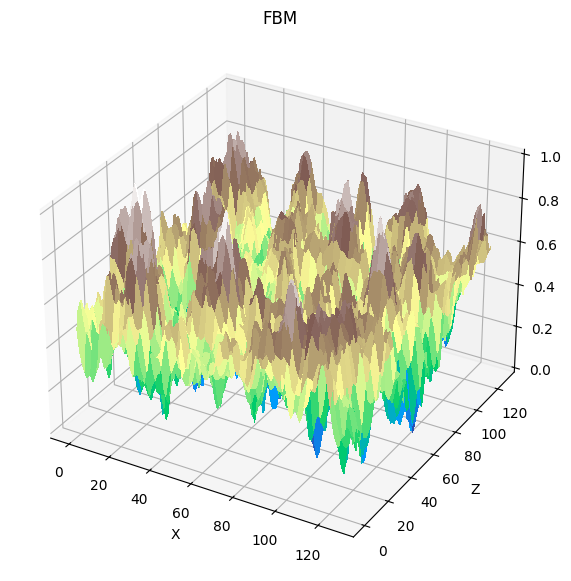
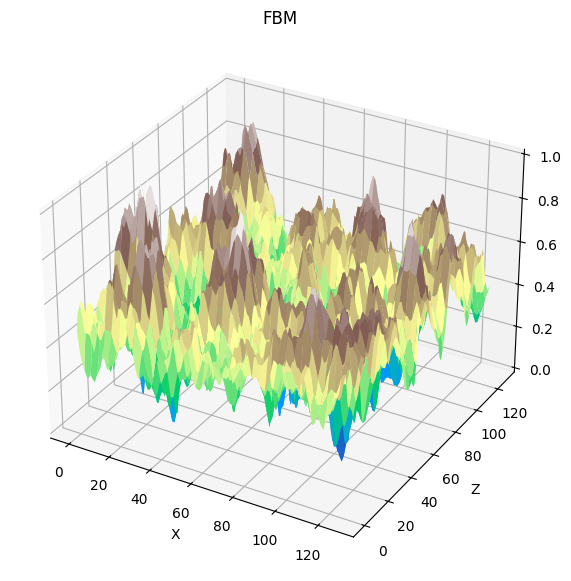
Accustom newly added changes in README

Changed region(s): [[0.1191, 0.2169, 0.8634, 0.8055]]

diff --git a/README.md b/README.md
@@ -4,9 +4,9 @@ Minimal procedural terrain generation with 3D mesh export, render & visualizatio
 <img src="noises/fbm.png" width=256> <img src="noises/perlin.png" width=256>
 
 ## Features
-- Procedural heightmap generation using **Perlin** or **FBM**
+- Procedural heightmap generation using fractal noise
 - Convert heightmaps to 3D mesh (OBJ format)
-- Render the 3D mesh using Ursina Engine
+- Render the 3D mesh using **Ursina Engine**
 - Static visualization in **Jupyter Notebook**
 - Configurable via <code>config.yaml</code>
 
@@ -18,14 +18,16 @@ Minimal procedural terrain generation with 3D mesh export, render & visualizatio
 - Ursina
 
 ## Usage
-1. Generate & export mesh:
+1. Visualize in **Jupyter Notebook**:
+    - Open <code>visualization.ipynb</code>. The notebook generates an illustration of the terrain in a simple 3D graph:
+    
+    <img src="noises/billow.png" width=256> <img src="noises/ridged.png" width=256>
+
+2. Generate & export mesh:
     - ```bash
         python generate.py
         ```
-    - This will produce an OBJ file in <code>meshes/</code> that can eventually be rendered in <b>Blender</b> or <b>Meshlab</b>
-
-2. Visualize in <b>Jupyter Notebook</b>:
-    - Open <code>visualization.ipynb</code>. The notebook generates an illustration of the terrain in a simple 3D graph.
+    - This will produce an OBJ file in <code>meshes/</code> that can eventually be rendered in **Blender** or **Meshlab**
 
 3. Render using generated mesh:
     - ```bash
